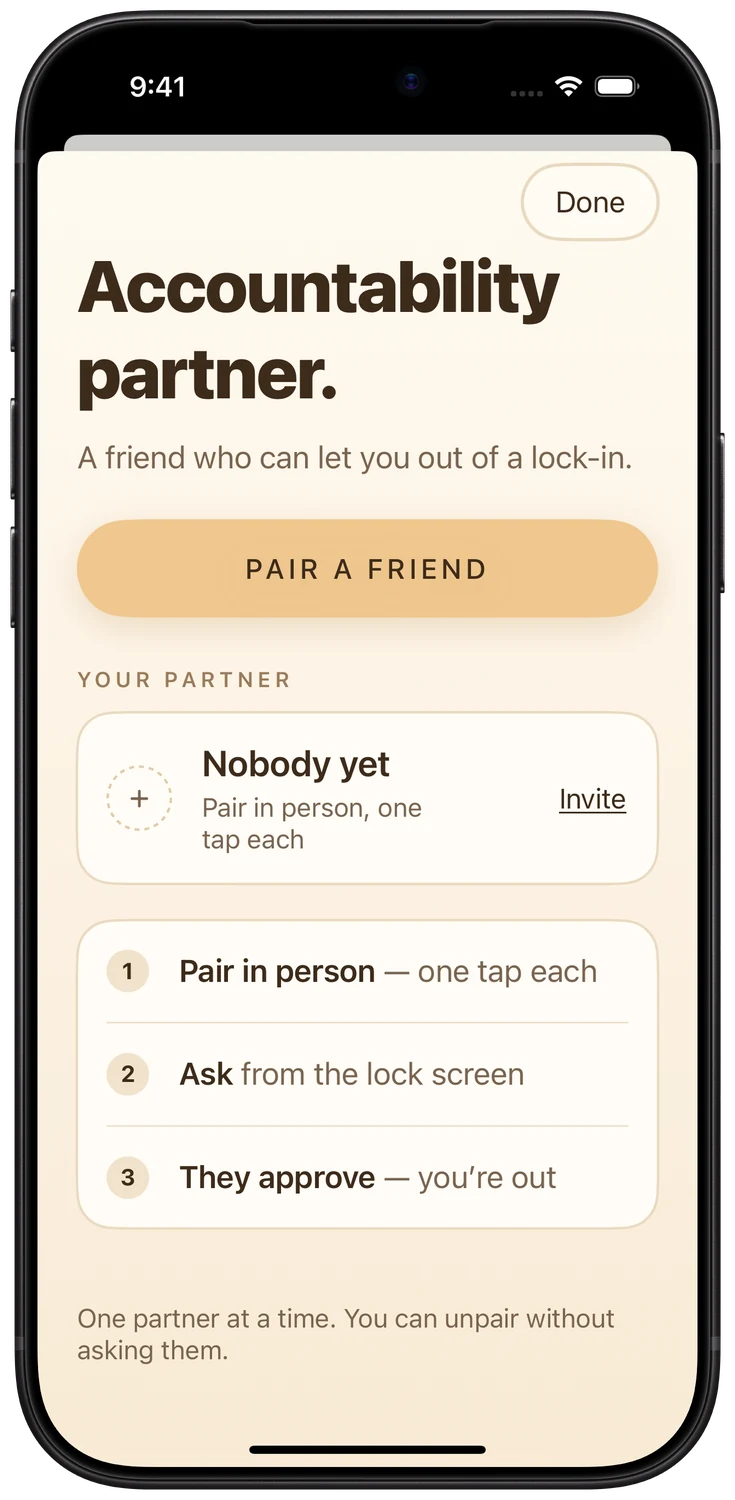
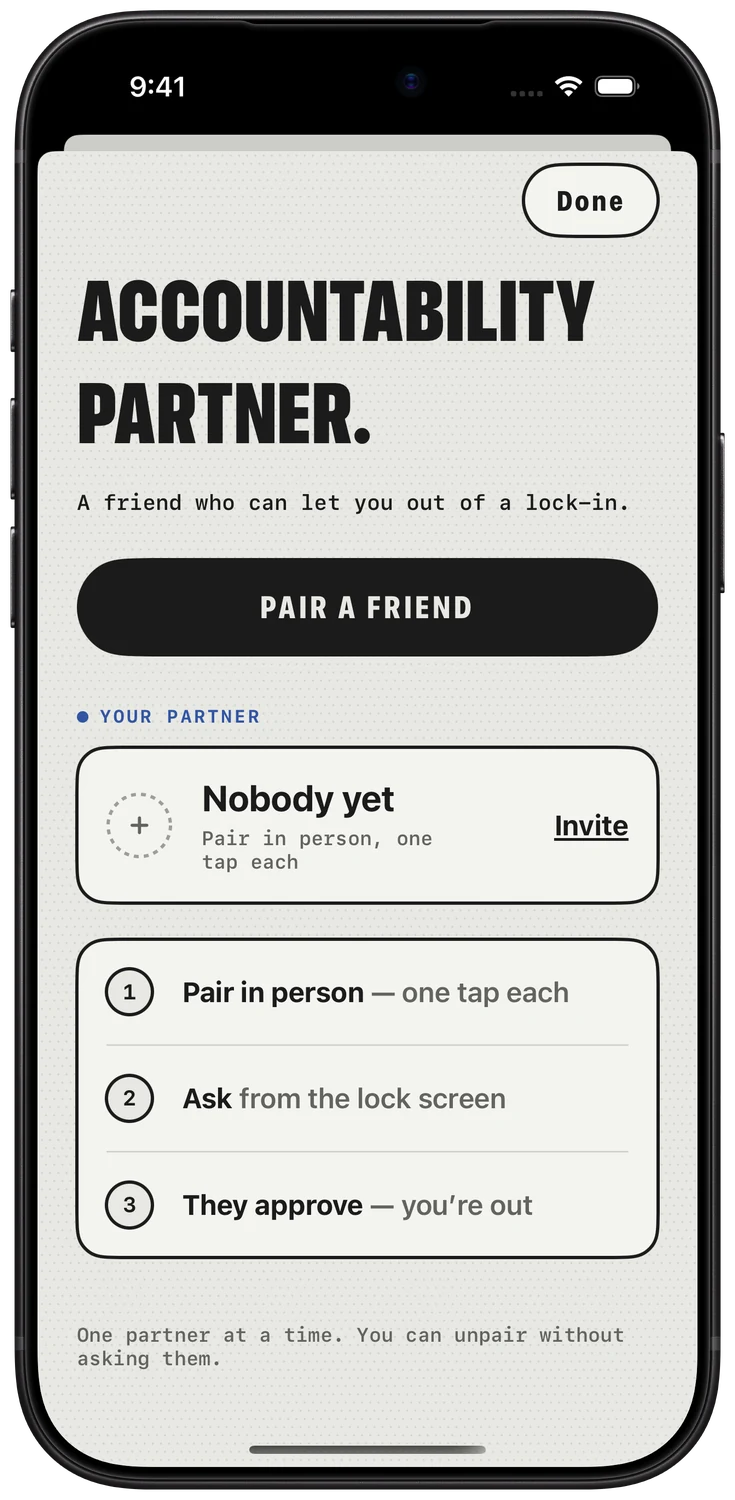
Windows steps 2-4 Apple-style; real iPhone frames; new partner picture
Steps are a plain ticked list with a quiet help line and a pill Next. The pictures use the
same iPhone frame as the home page: an iPhone Camera scanning the pairing code (step 2) and
the real Focus screen (step 4), next to Windows 11 style SwipeLater windows. Home page
partner picture is the new cream sheet from CI run 44685707524.

Changed region(s): [[0.0599, 0.092, 0.9578, 0.92], [0.2395, 0.7053, 0.7184, 0.736], [0.3293, 0.9507, 0.6585, 0.9813]]

diff --git a/pc/index.html b/pc/index.html
@@ -54,30 +54,36 @@ h1{font-size:clamp(34px,5vw,48px);line-height:1.06;letter-spacing:-.032em;font-w
 #nav button.ok i{background:var(--ok);color:#fff}
 #nav button:focus-visible{outline:3px solid var(--blue)}
 
-.panel{display:none;grid-template-columns:minmax(0,1fr) minmax(0,1.05fr);gap:clamp(28px,5vw,56px);align-items:start}
+.panel{display:none;grid-template-columns:minmax(0,1fr) minmax(0,1.1fr);gap:clamp(32px,6vw,72px);align-items:center}
 .panel.on{display:grid;animation:in .5s var(--ease)}
 @keyframes in{from{opacity:0;transform:translateY(10px)}}
 .kick{color:var(--blue);font-size:15px;font-weight:600;letter-spacing:-.01em}
-h2{font-size:clamp(30px,4vw,40px);line-height:1.08;letter-spacing:-.03em;font-weight:600;margin:6px 0 22px}
+h2{font-size:clamp(32px,4.4vw,44px);line-height:1.06;letter-spacing:-.034em;font-weight:600;margin:6px 0 22px}
 .opt{display:inline-block;margin-left:10px;padding:3px 10px;border-radius:99px;background:var(--tint);color:var(--soft);font-size:13px;font-weight:500;letter-spacing:0;vertical-align:middle}
-ol.todo{list-style:none;margin:0 0 18px;padding:0;display:grid;gap:10px}
-.todo li{display:flex;gap:14px;align-items:flex-start;padding:15px 16px;border-radius:16px;background:var(--card);box-shadow:0 0 0 1px var(--edge);opacity:.55;cursor:pointer;transition:opacity .3s ease,box-shadow .3s ease}
-.todo li.cur{opacity:1;box-shadow:0 0 0 2px var(--blue),0 10px 24px -12px rgba(50,85,164,.35)}
-.todo li.done{opacity:.85;box-shadow:0 0 0 1px #BFE3CB}
-.todo li i{font-style:normal;flex:none;width:26px;height:26px;border-radius:50%;background:var(--tint);display:grid;place-items:center;font-weight:600;font-size:14px;margin-top:1px}
-.todo li.cur i{background:var(--blue);color:#fff}.todo li.done i{background:var(--ok);color:#fff}
-.todo b{font-weight:600}
-kbd{display:inline-block;min-width:2em;padding:0 .5em;border-radius:7px;border:1px solid #CFCFCA;border-bottom-width:3px;background:#fff;font:600 13px/1.8 ui-monospace,"SF Mono",Consolas,monospace;text-align:center;color:var(--ink)}
-.stuck{padding:14px 16px;border-radius:16px;background:var(--tint);color:var(--soft);font-size:15px;line-height:1.5}.stuck b{color:var(--ink);font-weight:600}
-.go{display:flex;gap:12px;margin-top:20px}
-.go button{flex:1;min-height:50px;border-radius:999px;border:0;background:rgba(0,0,0,.06);color:var(--ink);font:500 17px var(--font);cursor:pointer;transition:background-color .2s ease,transform .16s var(--ease)}
-.go button:hover{background:rgba(0,0,0,.1)}
-.go button.main{background:var(--blue);color:#fff}.go button.main:hover{background:var(--blue-hover)}
+.lede{margin:-8px 0 18px;color:var(--soft);font-size:17px}
+
+/* The steps: a plain list, the current one in ink, done ones ticked. */
+ol.todo{list-style:none;margin:0;padding:0}
+.todo li{display:flex;gap:16px;align-items:flex-start;padding:17px 0;border-top:1px solid var(--hair);color:var(--soft);cursor:pointer;transition:color .3s ease}
+.todo li:last-child{border-bottom:1px solid var(--hair)}
+.todo li span{font-size:18px;line-height:1.42;letter-spacing:-.018em}
+.todo li i{position:relative;flex:none;width:28px;height:28px;margin-top:-1px;border-radius:50%;display:grid;place-items:center;font:600 14px var(--font);font-style:normal;color:var(--soft);box-shadow:inset 0 0 0 1.5px #D3D3CE;transition:background-color .3s ease,color .3s ease,box-shadow .3s ease}
+.todo li.cur{color:var(--ink)}
+.todo li.cur i{background:var(--blue);color:#fff;box-shadow:none}
+.todo li.done i{background:var(--ok);color:transparent;box-shadow:none}
+.todo li.done i::after{content:"";position:absolute;left:9px;top:8px;width:10px;height:5px;border:solid #fff;border-width:0 0 2.2px 2.2px;transform:rotate(-45deg)}
+.todo b{font-weight:600;color:var(--ink)}
+@media (hover:hover) and (pointer:fine){.todo li:hover{color:var(--ink)}}
+kbd{display:inline-block;min-width:1.9em;padding:0 .45em;border-radius:6px;border:1px solid #D0D0CB;border-bottom-width:2px;background:#fff;font:600 13px/1.7 ui-monospace,"SF Mono",Consolas,monospace;text-align:center;color:var(--ink)}
+.stuck{margin:20px 0 0;color:var(--soft);font-size:15px;line-height:1.5}.stuck b{color:var(--ink);font-weight:600}
+.note{margin:0 0 28px;padding:14px 16px;border-radius:14px;background:#EEF2FB;font-size:15px;line-height:1.5}
+.go{display:flex;flex-direction:row-reverse;justify-content:flex-end;align-items:center;gap:6px;margin-top:30px}
+.go button{all:unset;cursor:pointer;color:var(--link);font-size:17px;padding:12px 18px;border-radius:99px;transition:background-color .2s ease,transform .16s var(--ease)}
+.go button:hover{background:rgba(47,87,184,.08)}
+.go button.main{background:var(--blue);color:#fff;font-weight:500;padding:0 30px;min-height:48px;display:inline-flex;align-items:center}
+.go button.main:hover{background:var(--blue-hover)}
 .go button:active{transform:scale(.97)}
-.go button:disabled{opacity:.35;cursor:default;transform:none}
-.get{display:flex;align-items:center;justify-content:center;box-sizing:border-box;text-decoration:none;width:100%;min-height:58px;border:0;border-radius:999px;margin:0 0 10px;font:600 18px var(--font);letter-spacing:-.01em;color:#fff;cursor:pointer;background:var(--blue);transition:background-color .3s ease,transform .16s var(--ease)}
-.get:hover{background:var(--blue-hover);text-decoration:none}.get:active{transform:scale(.98)}
-.get.copied{background:var(--ok)}
+.go button:focus-visible{outline:3px solid var(--blue);outline-offset:3px}
 
 /* Step 1: just the download */
 .panel.dlp.on{grid-template-columns:1fr;justify-items:center}
@@ -85,33 +91,56 @@ kbd{display:inline-block;min-width:2em;padding:0 .5em;border-radius:7px;border:1
 .dl .app{width:96px;height:96px;border-radius:22px;margin:0 0 24px;box-shadow:0 0 0 .5px rgba(0,0,0,.1),0 1px 2px rgba(0,0,0,.08),0 18px 36px -12px rgba(30,30,40,.3)}
 .dl h2{margin:0;font-size:clamp(32px,5vw,44px);letter-spacing:-.034em}
 .dl .meta{margin:8px 0 28px;color:var(--soft);font-size:17px;letter-spacing:-.02em}
-.dl .get{width:auto;min-width:min(100%,280px);padding:0 38px;min-height:56px;margin:0 0 14px}
-.dl .fine{margin:0 0 26px}
+.get{display:flex;align-items:center;justify-content:center;box-sizing:border-box;text-decoration:none;min-height:56px;border:0;border-radius:999px;font:600 18px var(--font);letter-spacing:-.01em;color:#fff;cursor:pointer;background:var(--blue);transition:background-color .3s ease,transform .16s var(--ease)}
+.get:hover{background:var(--blue-hover);text-decoration:none}.get:active{transform:scale(.98)}
+.get.copied{background:var(--ok)}
+.dl .get{width:auto;min-width:min(100%,280px);padding:0 38px;margin:0 0 14px}
+.fine{margin:0 0 26px;text-align:center;color:var(--soft);font-size:13px}
 .quiet{all:unset;cursor:pointer;color:var(--link);font-size:17px;padding:10px 18px;border-radius:99px;transition:background-color .2s ease}
 .quiet:hover{background:rgba(47,87,184,.08)}.quiet:focus-visible{outline:3px solid var(--blue)}
 
-/* Pictures of each step */
-.mock{position:relative;padding:28px;min-height:440px;display:grid;place-items:center;border-radius:28px;background:var(--tint)}
-.win{border-radius:12px;background:#1b1f25;box-shadow:0 0 0 1px rgba(0,0,0,.08),0 30px 60px -24px rgba(30,30,40,.4);overflow:hidden;width:100%;color:#f3f5f8}
-.bar{height:32px;background:#242a32;display:flex;align-items:center;gap:7px;padding:0 12px;font-size:12px;color:#a0a8b3}.bar b{width:10px;height:10px;border-radius:50%;background:#3a424d}
-.paper{background:#e7e8e3;color:#1b1b1b}.paper .bar{background:#d6d8d1;color:#555}.paper .bar b{background:#aaa}
-.card{background:#f3f4f0;border-radius:14px;padding:12px 14px}
-.blue{display:inline-block;padding:10px 16px;border-radius:12px;background:#3255a4;color:#fff;font-weight:800;font-size:.8rem;letter-spacing:.08em;box-shadow:4px 4px 0 var(--sun)}
-.hl{animation:hl 1.4s ease-in-out infinite;outline:3px solid var(--blue);outline-offset:3px;border-radius:12px}
-@keyframes hl{50%{outline-color:#8FB0FF;box-shadow:0 0 0 6px rgba(50,85,164,.15)}}
-.tog{display:inline-block;width:42px;height:23px;border-radius:12px;background:#9aa0a6;position:relative;vertical-align:middle;transition:.3s}
-.tog::after{content:"";position:absolute;left:3px;top:3px;width:17px;height:17px;border-radius:50%;background:#fff;transition:.3s}.tog.on{background:#1a73e8}.tog.on::after{left:22px}
-.phone{position:relative;width:220px;height:440px;border-radius:40px;border:8px solid #1d1d1f;background:#0b0e12;box-shadow:0 30px 60px -24px rgba(30,30,40,.45);overflow:hidden;flex:none}
-.phone .n{position:absolute;top:9px;left:50%;width:70px;height:20px;margin-left:-35px;border-radius:12px;background:#000;z-index:2}
-.row2{display:flex;gap:18px;align-items:center;justify-content:center;width:100%}
+/* Pictures of each step: a soft stage, the real phone, a Windows 11 window. */
+.mock{position:relative;min-height:560px;padding:44px 28px;display:grid;place-items:center;border-radius:32px;background:linear-gradient(180deg,#F4F4F1,#ECECE7);overflow:hidden}
+.duo{display:flex;align-items:center;justify-content:center;width:100%;max-width:520px}
+.device{position:relative;flex:none;width:250px;z-index:1}
+.device>img{display:block;width:100%;height:auto;filter:drop-shadow(0 34px 34px rgba(30,30,40,.24)) drop-shadow(0 4px 8px rgba(30,30,40,.12))}
+.duo .pcw{width:58%;min-width:0}.duo .device{width:47%;margin-left:-5%}
+.spot{position:absolute;border-radius:16px;pointer-events:none}
+.hl{outline:2.5px solid var(--blue);outline-offset:4px;animation:hl 1.6s ease-in-out infinite}
+@keyframes hl{50%{outline-color:rgba(50,85,164,.28)}}
+
+.pcw{width:300px;flex:none;border-radius:10px;overflow:hidden;background:#E7E8E3;color:#1b1b1b;font-family:"Segoe UI Variable Text","Segoe UI",var(--font);letter-spacing:0;box-shadow:0 0 0 1px rgba(0,0,0,.13),0 2px 6px rgba(0,0,0,.07),0 32px 60px -26px rgba(30,30,40,.45)}
+.cap{height:34px;display:flex;align-items:center;gap:8px;padding-left:12px;background:#DCDDD7;font-size:12px;color:#2b2b2b}
+.cap img{width:16px;height:16px;border-radius:4px}
+.cap .ctl{margin-left:auto;display:flex;height:100%}
+.cap .ctl span{width:44px;display:grid;place-items:center}
+.pcb{padding:16px 16px 18px}
+.pcb h3{margin:0;font:800 22px/1.1 "Segoe UI Variable Display","Segoe UI",var(--font);letter-spacing:-.01em}
+.run{margin:4px 0 12px;color:#2e7d4f;font-weight:700;font-size:12px}
+.card{background:#F3F4F0;border-radius:12px;padding:12px 14px}
+.lbl{font:700 10px ui-monospace,Consolas,monospace;letter-spacing:.06em;color:#555;margin-bottom:4px}
+.blue{display:inline-block;padding:10px 16px;border-radius:12px;background:#3255a4;color:#fff;font-weight:800;font-size:12px;letter-spacing:.08em;box-shadow:4px 4px 0 var(--sun)}
+
+.chrome{width:100%;max-width:470px;border-radius:12px;overflow:hidden;background:#fff;color:#202124;font-family:"Segoe UI",var(--font);letter-spacing:0;box-shadow:0 0 0 1px rgba(0,0,0,.12),0 2px 6px rgba(0,0,0,.06),0 32px 60px -26px rgba(30,30,40,.4)}
+.tabs{height:38px;background:#DFE3E8;display:flex;align-items:flex-end;padding:0 10px}
+.tab{height:30px;padding:0 14px;border-radius:9px 9px 0 0;background:#fff;display:flex;align-items:center;gap:8px;font-size:12px;color:#3c4043}
+.tab i{width:12px;height:12px;border-radius:3px;background:#8ab4f8}
+.omni{height:40px;display:flex;align-items:center;padding:0 12px;border-bottom:1px solid #E8EAED}
+.omni span{flex:1;height:28px;border-radius:99px;background:#F1F3F4;display:flex;align-items:center;padding:0 14px;font-size:12px;color:#3c4043}
+.cbody{padding:16px 18px 18px}
+.chip{padding:7px 13px;border:1px solid #DADCE0;border-radius:99px;font-size:12px;color:#1a73e8;font-weight:600}
+.tog{display:inline-block;width:34px;height:18px;border-radius:9px;background:#9aa0a6;position:relative;vertical-align:middle;transition:background-color .3s ease}
+.tog::after{content:"";position:absolute;left:2px;top:2px;width:14px;height:14px;border-radius:50%;background:#fff;transition:transform .3s var(--ease)}.tog.on{background:#1a73e8}.tog.on::after{transform:translateX(16px)}
+.mini-pcw{position:absolute;right:18px;bottom:18px;width:200px;transform:rotate(-2deg)}
+
 .finish{display:none;text-align:center;padding:40px 10px}.finish.on{display:block}
 .finish img{width:96px;height:96px;border-radius:22px;margin:0 auto 26px;box-shadow:0 0 0 .5px rgba(0,0,0,.1),0 20px 40px -10px rgba(30,30,40,.25)}
 .finish h2{font-size:clamp(40px,6vw,56px)}
 .finish p{color:var(--soft);font-size:19px;line-height:1.45}
-@media (max-width:833px){.panel.on{grid-template-columns:1fr}#nav button span{display:none}.mock{min-height:0;padding:22px}.head{gap:16px}.mini{width:64px;height:64px}}
-@media (max-width:520px){.row2{flex-direction:column}.head{flex-direction:column;align-items:flex-start;gap:18px}.head p{font-size:17px}}
+@media (max-width:833px){.panel.on{grid-template-columns:1fr}#nav button span{display:none}.mock{min-height:0;padding:30px 16px}.head{gap:16px}.mini{width:64px;height:64px}}
+@media (max-width:620px){.duo{flex-direction:column;gap:18px}.duo .device{margin-left:0;width:220px}.duo .pcw,.pcw{width:min(300px,100%)}.mini-pcw{position:static;transform:none;margin-top:14px;width:min(240px,100%)}}
+@media (max-width:520px){.head{flex-direction:column;align-items:flex-start;gap:18px}.head p{font-size:17px}}
 @media (prefers-reduced-motion:reduce){*{animation:none!important;transition:none!important}}
-.fine{margin:0 0 18px;text-align:center;color:var(--soft);font-size:13px}
 
 footer{background:var(--tint);color:var(--soft);font-size:12px;line-height:1.5;padding:22px 0 30px}
 footer .wrap{display:flex;justify-content:space-between;gap:16px;flex-wrap:wrap}
@@ -148,51 +177,50 @@ footer nav{display:flex;gap:20px;flex-wrap:wrap}
 
 <!-- 2 -->
 <section class="panel" id="p1">
- <div><div class="kick">Step 2 of 4 · PC and phone</div><h2>Pair your phone</h2>
-  <ol class="todo"><li data-hl="m2btn"><i>1</i><span>In the SwipeLater window on your PC, press <b>PAIR MY PHONE</b>. A square code appears.</span></li>
-   <li data-hl="m2qr"><i>2</i><span>Open the <b>Camera</b> app on your iPhone. Point it at the square code.</span></li>
-   <li data-hl="m2ban"><i>3</i><span>Tap the <b>SwipeLater</b> banner that pops up on your phone. SwipeLater opens and says it is paired.</span></li></ol>
-  <div class="stuck"><b>Stuck?</b> Your phone and PC must be on the <b>same Wi-Fi</b>. The code runs out after a few minutes. Press <b>NEW CODE</b> to get another.</div>
+ <div><div class="kick">Step 2 of 4</div><h2>Pair your phone</h2>
+  <ol class="todo"><li data-hl="m2btn"><i>1</i><span>On your PC, press <b>PAIR MY PHONE</b> in SwipeLater.</span></li>
+   <li data-hl="m2qr"><i>2</i><span>Point your iPhone <b>Camera</b> at the code.</span></li>
+   <li data-hl="m2ban"><i>3</i><span>Tap <b>Open in “SwipeLater”</b>. That’s it.</span></li></ol>
+  <p class="stuck"><b>Stuck?</b> Use the same Wi-Fi on both. Codes expire after a few minutes, so press <b>NEW CODE</b> for another.</p>
   <div class="go"><button data-back>Back</button><button class="main" data-next>Next step</button></div></div>
- <div class="mock"><div class="row2">
-  <div class="win paper" style="max-width:300px"><div class="bar"><b></b><b></b>SwipeLater</div><div style="padding:14px"><div style="font-size:1.4rem;font-weight:900">SwipeLater</div><div style="color:#2e7d4f;font-weight:700;font-size:.8rem;margin-bottom:10px">● Running on this PC</div>
-   <div class="card"><div style="font:700 .65rem Consolas;color:#555;margin-bottom:4px">PHONE</div><div style="font-size:.85rem;margin-bottom:8px" id="m2t">No phone paired yet.</div>
-   <canvas id="qr" width="120" height="120" style="display:none;margin:0 auto 8px"></canvas><span class="blue" id="m2btn">PAIR MY PHONE</span></div></div></div>
-  <div class="phone"><div class="n"></div><div style="position:absolute;inset:0;background:linear-gradient(#1b2a1b,#0f1a12)"><div id="m2qr" style="position:absolute;left:32px;top:150px;width:140px;height:140px;border:3px solid #ffd60a;border-radius:16px"></div>
-   <div id="m2ban" style="position:absolute;left:12px;right:12px;top:46px;padding:11px;border-radius:15px;background:#2b2f36ee;color:#fff;font-size:.8rem"><b>SwipeLater</b><br><span style="color:#aab">Open in “SwipeLater”</span></div></div></div></div></div>
+ <div class="mock"><div class="duo">
+  <div class="pcw"><div class="cap"><img src="../assets/app/icon.png" alt="">SwipeLater<div class="ctl"><span><svg width="10" height="10" aria-hidden="true"><path d="M0 5.5h10" stroke="#333"/></svg></span><span><svg width="10" height="10" aria-hidden="true"><rect x=".5" y=".5" width="9" height="9" fill="none" stroke="#333"/></svg></span><span><svg width="10" height="10" aria-hidden="true"><path d="M0 0l10 10M10 0 0 10" stroke="#333"/></svg></span></div></div><div class="pcb"><h3>SwipeLater</h3><div class="run">● Running on this PC</div>
+   <div class="card"><div class="lbl">PHONE</div><div style="font-size:14px;margin-bottom:10px" id="m2t">No phone paired yet.</div>
+   <canvas id="qr" width="120" height="120" style="display:none;margin:0 auto 10px"></canvas><span class="blue" id="m2btn">PAIR MY PHONE</span></div></div></div>
+  <div class="device"><img src="../assets/app/pair-camera.webp" width="735" height="1500" alt="iPhone Camera pointed at the pairing code on the PC, showing Open in SwipeLater."><span class="spot" id="m2qr" style="left:33%;top:23.6%;width:33%;height:16.4%"></span><span class="spot" id="m2ban" style="left:29.5%;top:60.6%;width:41%;height:4.6%;border-radius:99px"></span></div>
+ </div></div>
 </section>
 
 <!-- 3 -->
 <section class="panel" id="p2">
- <div><div class="kick">Step 3 of 4 · In your browser</div><h2>Connect your browser <span class="opt">Optional</span></h2>
-  <p style="margin:0 0 16px;color:var(--soft)">This lets your buddy see when scrolling takes over. You can skip it and do it later.</p>
-  <ol class="todo"><li data-hl="m3conn"><i>1</i><span>In the SwipeLater window, press <b>CONNECT BROWSERS</b>. Chrome opens its extensions page.</span></li>
-   <li data-hl="m3dev"><i>2</i><span>Turn on <b>Developer mode</b>. It is the switch at the top right.</span></li>
+ <div><div class="kick">Step 3 of 4 · Optional</div><h2>Connect your browser</h2>
+  <p class="lede">Lets your buddy see when scrolling takes over. You can skip this.</p>
+  <ol class="todo"><li data-hl="m3conn"><i>1</i><span>In SwipeLater, press <b>CONNECT BROWSERS</b>. Chrome opens Extensions.</span></li>
+   <li data-hl="m3dev"><i>2</i><span>Turn on <b>Developer mode</b>, top right.</span></li>
    <li data-hl="m3lu"><i>3</i><span>Press <b>Load unpacked</b>.</span></li>
-   <li data-hl="m3dlg"><i>4</i><span>Click the folder box and press <kbd>Ctrl</kbd> + <kbd>V</kbd>. SwipeLater already copied the folder for you. Then press <b>Select Folder</b>.</span></li>
-   <li data-hl="m3inc"><i>5</i><span>Find the <b>SwipeLater buddy</b> card. Press <b>Details</b>, then turn on <b>Allow in Incognito</b>.</span></li></ol>
-  <div class="stuck"><b>Stuck?</b> No Developer mode switch? You are on the wrong page. The address must say <b>chrome://extensions</b> (or <b>edge://extensions</b> in Edge).</div>
+   <li data-hl="m3dlg"><i>4</i><span>Click the folder box, press <kbd>Ctrl</kbd> <kbd>V</kbd>, then <b>Select Folder</b>.</span></li>
+   <li data-hl="m3inc"><i>5</i><span>On <b>SwipeLater buddy</b>, press <b>Details</b> and turn on <b>Allow in Incognito</b>.</span></li></ol>
+  <p class="stuck"><b>Stuck?</b> No Developer mode switch? The address should read <b>chrome://extensions</b> (or <b>edge://extensions</b> in Edge).</p>
   <div class="go"><button data-back>Back</button><button class="main" data-next>Next step</button></div></div>
- <div class="mock"><div class="win" style="background:#fff;color:#202124;position:relative;min-height:400px"><div class="bar" style="background:#dfe1e5;color:#555"><b style="background:#aaa"></b><b style="background:#aaa"></b>&nbsp;chrome://extensions</div>
-  <div style="padding:16px 18px"><div style="display:flex;justify-content:space-between;align-items:center;font-size:1.2rem;font-weight:600">Extensions <span style="font-size:.78rem;font-weight:400" id="m3dev">Developer mode &nbsp;<span class="tog" id="tdev"></span></span></div>
-   <div style="margin:14px 0;display:flex;gap:8px"><span id="m3lu" style="padding:8px 13px;border:1.5px solid #dadce0;border-radius:18px;font-size:.8rem;color:#1a73e8;font-weight:600">Load unpacked</span><span style="padding:8px 13px;border:1.5px solid #dadce0;border-radius:18px;font-size:.8rem;color:#1a73e8">Pack extension</span></div>
-   <div id="m3dlg" style="padding:14px;border:1.5px solid #c9ccd1;border-radius:12px;box-shadow:0 14px 34px #0002;margin-bottom:12px"><div style="font-weight:600;font-size:.85rem;margin-bottom:8px">Select the extension directory</div><div style="padding:8px;border:1.5px solid #1a73e8;border-radius:6px;font:.72rem Consolas;color:#333;word-break:break-all">…\AppData\Local\Programs\SwipeLater\extension</div><div style="text-align:right;margin-top:10px"><span style="padding:7px 14px;background:#1a73e8;color:#fff;border-radius:18px;font-size:.78rem">Select Folder</span></div></div>
-   <div style="padding:13px;border:1.5px solid #dadce0;border-radius:12px;max-width:290px"><div style="font-weight:600">SwipeLater buddy</div><div style="font-size:.74rem;color:#5f6368;margin:3px 0 8px">Lets the buddy see when scrolling takes over.</div><div style="font-size:.78rem" id="m3inc">Allow in Incognito &nbsp;<span class="tog" id="tinc"></span></div></div></div>
-  </div><div id="m3conn" class="win paper" style="position:absolute;right:10px;bottom:10px;width:190px;transform:rotate(-2deg)"><div class="bar"><b></b><b></b>SwipeLater</div><div style="padding:10px 12px"><span class="blue" style="font-size:.66rem;padding:8px 10px">CONNECT BROWSERS</span></div></div></div>
+ <div class="mock"><div class="chrome"><div class="tabs"><div class="tab"><i></i>Extensions</div></div><div class="omni"><span>chrome://extensions</span></div>
+  <div class="cbody"><div style="display:flex;justify-content:space-between;align-items:center;font-size:18px;font-weight:600">Extensions <span style="font-size:12px;font-weight:400;border-radius:8px" id="m3dev">Developer mode&nbsp; <span class="tog" id="tdev"></span></span></div>
+   <div style="margin:14px 0;display:flex;gap:8px"><span class="chip" id="m3lu">Load unpacked</span><span class="chip" style="font-weight:400">Pack extension</span></div>
+   <div id="m3dlg" style="padding:14px;border:1px solid #DADCE0;border-radius:12px;box-shadow:0 12px 30px rgba(0,0,0,.12);margin-bottom:12px"><div style="font-weight:600;font-size:13px;margin-bottom:8px">Select the extension directory</div><div style="padding:8px 10px;border:1.5px solid #1a73e8;border-radius:6px;font:11px Consolas,monospace;color:#333;word-break:break-all">…\AppData\Local\Programs\SwipeLater\extension</div><div style="text-align:right;margin-top:10px"><span style="display:inline-block;padding:7px 14px;background:#1a73e8;color:#fff;border-radius:99px;font-size:12px">Select Folder</span></div></div>
+   <div style="padding:13px;border:1px solid #DADCE0;border-radius:12px;max-width:290px"><div style="font-weight:600;font-size:14px">SwipeLater buddy</div><div style="font-size:12px;color:#5f6368;margin:3px 0 8px">Lets the buddy see when scrolling takes over.</div><div style="font-size:12px;border-radius:8px;display:inline-block" id="m3inc">Allow in Incognito&nbsp; <span class="tog" id="tinc"></span></div></div></div></div>
+  <div class="pcw mini-pcw" id="m3conn"><div class="cap"><img src="../assets/app/icon.png" alt="">SwipeLater<div class="ctl"><span><svg width="10" height="10" aria-hidden="true"><path d="M0 5.5h10" stroke="#333"/></svg></span><span><svg width="10" height="10" aria-hidden="true"><rect x=".5" y=".5" width="9" height="9" fill="none" stroke="#333"/></svg></span><span><svg width="10" height="10" aria-hidden="true"><path d="M0 0l10 10M10 0 0 10" stroke="#333"/></svg></span></div></div><div class="pcb" style="padding:12px 14px"><span class="blue" style="font-size:11px;padding:8px 10px">CONNECT BROWSERS</span></div></div></div>
 </section>
 
 <!-- 4 -->
 <section class="panel" id="p3">
- <div><div class="kick">Step 4 of 4 · On your phone</div><h2>Start focusing</h2>
-  <ol class="todo"><li data-hl="m4lock"><i>1</i><span>Open SwipeLater on your iPhone. Pick your minutes, then <b>slide to lock in</b>.</span></li>
-   <li data-hl="m4pc"><i>2</i><span>Look at your PC. The SwipeLater window shows the same timer. If you scroll or open a distracting app, your buddy nudges you.</span></li></ol>
-  <div class="stuck"><b>Stuck?</b> The PC window says <b>No session</b>? Check that the phone still says <b>Paired</b>. If not, go back to step 2.</div>
+ <div><div class="kick">Step 4 of 4</div><h2>Start focusing</h2>
+  <ol class="todo"><li data-hl="m4lock"><i>1</i><span>On your iPhone, pick your minutes and <b>slide to lock in</b>.</span></li>
+   <li data-hl="m4pc"><i>2</i><span>Your PC shows the same timer. Scroll or open a distracting app, and your buddy nudges you.</span></li></ol>
+  <p class="stuck"><b>Stuck?</b> PC says <b>No session</b>? Check that the phone still says <b>Paired</b>, or redo step 2.</p>
   <div class="go"><button data-back>Back</button><button class="main" id="finish">I’m done</button></div></div>
- <div class="mock"><div class="row2"><div class="phone" style="background:#e7e8e3"><div class="n"></div><div style="text-align:center;padding-top:66px;color:#1b1b1b">
-  <svg viewBox="0 0 200 200" width="156" style="margin:6px 0 4px"><circle cx="100" cy="100" r="70" fill="none" stroke="#d3d4ce" stroke-width="3"/><circle cx="100" cy="100" r="70" fill="none" stroke="#3255a4" stroke-width="5" stroke-linecap="round" stroke-dasharray="440" stroke-dashoffset="34" transform="rotate(-90 100 100)"/><text x="100" y="112" text-anchor="middle" font-size="38" fill="#1b1b1b" font-weight="700" font-family="-apple-system,Inter,sans-serif">24:59</text></svg>
-  <div style="font-size:.7rem;color:#575a55;margin-bottom:78px">Ends 10:25 AM</div>
-  <span id="m4lock" style="display:inline-flex;align-items:center;gap:10px;padding:5px 16px 5px 5px;border-radius:99px;font-weight:800;letter-spacing:.1em;font-size:.62rem;color:#fff;background:#1b1b1b"><span style="width:28px;height:28px;border-radius:50%;background:#fff;color:#1b1b1b;display:grid;place-items:center;font-size:14px">→</span>SLIDE TO LOCK IN</span></div></div>
-  <div class="win paper" id="m4pc" style="max-width:290px"><div class="bar"><b></b><b></b>SwipeLater</div><div style="padding:14px"><div style="font-size:1.3rem;font-weight:900">SwipeLater</div><div class="card" style="margin-top:10px"><div style="font:700 .65rem Consolas;color:#555">RIGHT NOW</div><div style="font-size:1.1rem;font-weight:700;margin-top:4px">Focusing · 24:59 left</div><div style="font-size:.78rem;color:#555;margin-top:2px">Distracting apps get a nudge from the buddy.</div></div></div></div></div></div>
+ <div class="mock"><div class="duo">
+  <div class="pcw" id="m4pc"><div class="cap"><img src="../assets/app/icon.png" alt="">SwipeLater<div class="ctl"><span><svg width="10" height="10" aria-hidden="true"><path d="M0 5.5h10" stroke="#333"/></svg></span><span><svg width="10" height="10" aria-hidden="true"><rect x=".5" y=".5" width="9" height="9" fill="none" stroke="#333"/></svg></span><span><svg width="10" height="10" aria-hidden="true"><path d="M0 0l10 10M10 0 0 10" stroke="#333"/></svg></span></div></div><div class="pcb"><h3>SwipeLater</h3><div class="run">● Running on this PC</div><div class="card"><div class="lbl">RIGHT NOW</div><div style="font-size:17px;font-weight:700">Focusing · 44:59 left</div><div style="font-size:13px;color:#555;margin-top:2px">Distracting apps get a nudge from the buddy.</div></div></div></div>
+  <div class="device"><img src="../assets/app/idle.webp" width="735" height="1500" alt="SwipeLater on iPhone with 45 minutes picked and Slide to lock in."><span class="spot" id="m4lock" style="left:19.5%;top:85.2%;width:61%;height:7.6%;border-radius:99px"></span></div>
+ </div></div>
 </section>
 
 <section class="finish" id="fin"><img src="../assets/app/icon.png" alt="" width="96" height="96"><h2>All set.</h2><p>SwipeLater is on your PC and paired with your phone.<br>Close this page. SwipeLater keeps working in your tray.</p></section>
@@ -243,7 +271,7 @@ $('get').addEventListener('click',()=>{
  doneSteps.add(0);cur=1;paint();scrollTo({top:0,behavior:'smooth'});
  clearInterval(poll);poll=setInterval(async()=>{if(!wasUp&&await ping())installed()},1500);
  setTimeout(()=>{if(stage<3){$('get').textContent='Download again';$('get').classList.remove('copied')}},7000)});
-if(/iPhone|iPad|Android/i.test(navigator.userAgent)){const n=document.createElement('div');n.className='stuck';n.style.cssText='margin-bottom:24px;background:#EEF2FB;color:var(--ink)';n.innerHTML='<b>You are on a phone.</b> Open this page on your PC to install. You can read the steps here first.';document.querySelector('.head').after(n);const g=$('get');g.removeAttribute('href');g.removeAttribute('download');g.setAttribute('role','button');g.style.cursor='pointer';g.textContent='Copy link for my PC';
+if(/iPhone|iPad|Android/i.test(navigator.userAgent)){const n=document.createElement('div');n.className='note';n.innerHTML='<b>You are on a phone.</b> Open this page on your PC to install. You can read the steps here first.';document.querySelector('.head').after(n);const g=$('get');g.removeAttribute('href');g.removeAttribute('download');g.setAttribute('role','button');g.style.cursor='pointer';g.textContent='Copy link for my PC';
  g.addEventListener('click',async e=>{e.stopImmediatePropagation();try{await navigator.clipboard.writeText(location.href)}catch(err){}g.textContent='Link copied';g.classList.add('copied')},true)}
 paint();
 </script></body></html>
